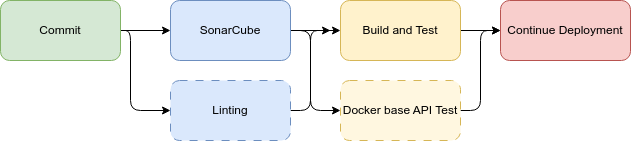
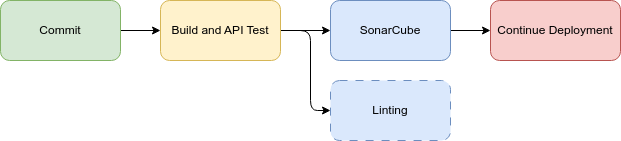
minor changes

diff --git a/report/report.md b/report/report.md
@@ -219,11 +219,11 @@ Each workflow is defined in the `.github/workflows` directory and is triggered b
 
 The deployment process follows a structured chain format to ensure reliability and minimize downtime. The steps are as follows:
 
-1. **Linting and Code Quality Checks**  
-   The code is first analyzed for adherence to linting and formatting standards. This ensures that the codebase remains clean and maintainable.
+1. **Testing**  
+   Once the linting checks pass, the commit undergoes testing to validate that all components work together as expected.
 
-2. **Integration Testing**  
-   Once the linting checks pass, the commit undergoes rigorous integration testing to validate that all components work together as expected.
+2. **Linting and Code Quality Checks**  
+   The code is first analyzed for adherence to linting and formatting standards. This ensures that the codebase remains clean and maintainable.
 
 3. **Deployment with Rolling Updates**  
    If the commit successfully passes all previous stages, the deployment process begins. Rolling updates are utilized to ensure a seamless transition. This approach guarantees that if the deployment encounters any issues, an unaffected backup server remains operational to handle the workload while the problem is resolved.
